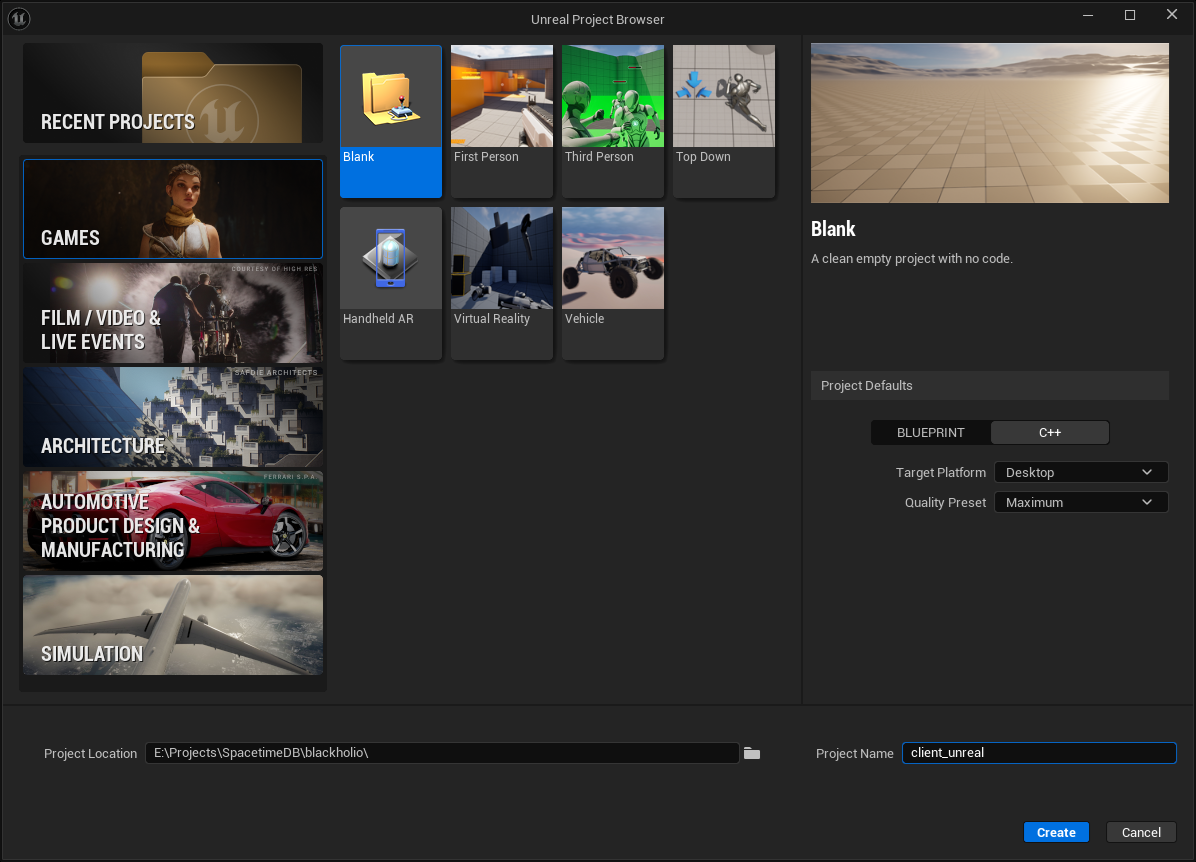
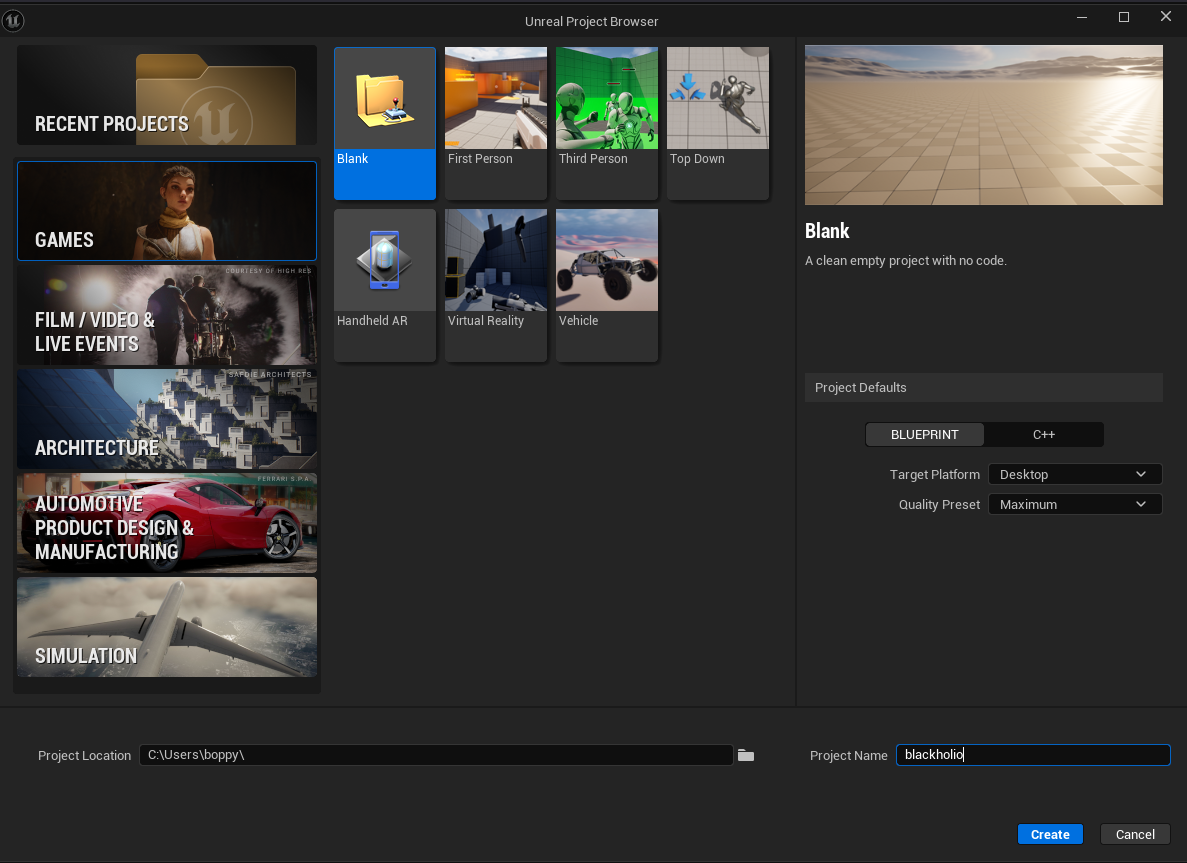
Changes required for unreal engine - still needs testing

diff --git a/docs/docs/04-Unreal Tutorial/03-part-2.md b/docs/docs/04-Unreal Tutorial/03-part-2.md
@@ -12,7 +12,28 @@ Need help with the tutorial? [Join our Discord server](https://discord.gg/spacet
 
 This progressive tutorial is continued from [part 1](/unreal/part-1).
 
+## Project Structure
+
+Now that we have our client project setup we can configure the module directory. Regardless of what language you choose, your module will always go into a `spacetimedb` directory within your client directory like this:
+
+```
+blackholio/                      # Unreal project root
+├── Binaries/
+├── blackholio.sln
+├── blackholio.uproject
+├── Config/
+├── Content/
+├── Plugins/
+│   └── SpacetimeDbSdk/          # This is where the SpacetimeDB Unreal SDK lives
+├── ... rest of Unreal files
+└── spacetimedb/                 # This is where the server module lives
+```
+
 ## Create a Server Module
+
+:::note
+Ensure you have SpacetimeDB version >=1.4.0 installed to enable Unreal Engine code generation support.
+:::
 
 If you have not already installed the `spacetime` CLI, check out our [Getting Started](/getting-started) guide for instructions on how to install.
 
@@ -23,19 +44,19 @@ In your `blackholio` directory, run the following command to initialize the Spac
 Run the following command to initialize the SpacetimeDB server module project with Rust as the language:
 
 ```bash
-spacetime init --lang rust server-rust
+spacetime init --lang rust blackholio
 ```
 
-This command creates a new folder named `server-rust` alongside your Unreal project `client_unreal` directory and sets up the SpacetimeDB server project with Rust as the programming language.
+This command creates a new folder named `blackholio` alongside your Unreal project `blackholio` directory and sets up the SpacetimeDB server project with Rust as the programming language.
 </TabItem>
 <TabItem value="csharp" label="C#">
 Run the following command to initialize the SpacetimeDB server module project with C# as the language:
 
 ```bash
-spacetime init --lang csharp server-csharp
+spacetime init --lang csharp blackholio
 ```
 
-This command creates a new folder named `server-csharp` alongside your Unreal project `client-unreal` directory and sets up the SpacetimeDB server project with C# as the programming language.
+This command creates a new folder named `blackholio` inside of your Unreal project `blackholio` directory and sets up the SpacetimeDB server project with C# as the programming language.
 </TabItem>
 </Tabs>
 
@@ -43,14 +64,14 @@ This command creates a new folder named `server-csharp` alongside your Unreal pr
 
 <Tabs groupId="server-language" defaultValue="rust">
 <TabItem value="rust" label="Rust">
-In this section we'll be making some edits to the file `server-rust/src/lib.rs`. We recommend you open up this file in an IDE like VSCode or RustRover.
+In this section we'll be making some edits to the file `blackholio/spacetimedb/src/lib.rs`. We recommend you open up this file in an IDE like VSCode or RustRover.
 
-**Important: Open the `server-rust/src/lib.rs` file and delete its contents. We will be writing it from scratch here.**
+**Important: Open the `blackholio/spacetimedb/src/lib.rs` file and delete its contents. We will be writing it from scratch here.**
 </TabItem>
 <TabItem value="csharp" label="C#">
-In this section we'll be making some edits to the file `server-csharp/Lib.cs`. We recommend you open up this file in an IDE like VSCode or Rider.
+In this section we'll be making some edits to the file `blackholio/spacetimedb/Lib.cs`. We recommend you open up this file in an IDE like VSCode or Rider.
 
-**Important: Open the `server-csharp/Lib.cs` file and delete its contents. We will be writing it from scratch here.**
+**Important: Open the `blackholio/spacetimedb/Lib.cs` file and delete its contents. We will be writing it from scratch here.**
 </TabItem>
 </Tabs>
 
@@ -364,10 +385,10 @@ Starting SpacetimeDB listening on 127.0.0.1:3000
 
 <Tabs groupId="server-language" defaultValue="rust">
 <TabItem value="rust" label="Rust">
-Now that SpacetimeDB is running we can publish our module to the SpacetimeDB host. In a separate terminal window, navigate to the `blackholio/server-rust` directory.
+Now that SpacetimeDB is running we can publish our module to the SpacetimeDB host. In a separate terminal window, navigate to the `blackholio/spacetimedb` directory.
 </TabItem>
 <TabItem value="csharp" label="C#">
-Now that SpacetimeDB is running we can publish our module to the SpacetimeDB host. In a separate terminal window, navigate to the `blackholio/server-csharp` directory.
+Now that SpacetimeDB is running we can publish our module to the SpacetimeDB host. In a separate terminal window, navigate to the `blackholio/spacetimedb` directory.
 </TabItem>
 </Tabs>
 
@@ -477,21 +498,21 @@ The `spacetime` CLI has built in functionality to let us generate Unreal C++ typ
 
 <Tabs groupId="server-language" defaultValue="rust">
 <TabItem value="rust" label="Rust">
-Let's generate our types for our module. In the `blackholio/server-rust` directory run the following command:
+Let's generate our types for our module. In the `blackholio/spacetimedb` directory run the following command:
 </TabItem>
 <TabItem value="csharp" label="C#">
-Let's generate our types for our module. In the `blackholio/server-csharp` directory run the following command:
+Let's generate our types for our module. In the `blackholio/spacetimedb` directory run the following command:
 </TabItem>
 </Tabs>
 
 ```sh
-spacetime generate --lang unrealcpp --uproject-dir ../client_unreal --project-path ./ --module-name client_unreal
+spacetime generate --lang unrealcpp --uproject-dir ../../blackholio --project-path ./ --module-name blackholio
 ```
 
-This will generate a set of files in the `client_unreal/Source/client_unreal/Private/ModuleBindings` and `client_unreal/Source/client_unreal/Public/ModuleBindings` directories which contain the code generated types and reducer functions that are defined in your module, but usable on the client.
+This will generate a set of files in the `blackholio/Source/blackholio/Private/ModuleBindings` and `blackholio/Source/blackholio/Public/ModuleBindings` directories which contain the code generated types and reducer functions that are defined in your module, but usable on the client.
 
 :::note
-`--uproject-dir` is straightforward as the path to the .uproject file. `--module-name` is the name of the Unreal module which in most projects is the name of the project, in this case `client_unreal`.
+`--uproject-dir` is straightforward as the path to the .uproject file. `--module-name` is the name of the Unreal module which in most projects is the name of the project, in this case `blackholio`.
 :::
 
 ```
@@ -514,11 +535,11 @@ This will generate a set of files in the `client_unreal/Source/client_unreal/Pri
 └── SpacetimeDBClient.g.h
 ```
 
-This will also generate a file in the `client_unreal/Source/client_unreal/Private/ModuleBindings/SpacetimeDBClient.g.h` directory with a type aware `UDbConnection` class. We will use this class to connect to your database from Unreal.
+This will also generate a file in the `blackholio/Source/blackholio/Private/ModuleBindings/SpacetimeDBClient.g.h` directory with a type aware `UDbConnection` class. We will use this class to connect to your database from Unreal.
 
 ### Connecting to the Database
 
-Update `client_unreal.Build.cs` to include the `SpacetimeDbSdk`. Add `SpacetimeDbSdk` and `Paper2D` to `PublicDependencyModuleNames`, and confirm that `PrivateDependencyModuleNames` includes the following modules for current and future needs:
+Update `blackholio.Build.cs` to include the `SpacetimeDbSdk`. Add `SpacetimeDbSdk` and `Paper2D` to `PublicDependencyModuleNames`, and confirm that `PrivateDependencyModuleNames` includes the following modules for current and future needs:
 
 ```cpp
         PublicDependencyModuleNames.AddRange(new string[]

diff --git a/docs/docs/04-Unreal Tutorial/02-part-1.md b/docs/docs/04-Unreal Tutorial/02-part-1.md
@@ -11,26 +11,6 @@ Need help with the tutorial? [Join our Discord server](https://discord.gg/spacet
 >
 > [https://github.com/clockworklabs/SpacetimeDB/tree/master/demo/Blackholio](https://github.com/clockworklabs/SpacetimeDB/tree/master/demo/Blackholio)
 
-## Prepare Project Structure
-
-:::note
-Ensure you have SpacetimeDB version >=1.4.0 installed to enable Unreal Engine code generation support.
-:::
-
-This project is separated into two subdirectories;
-
-1. Server (module) code
-2. Client code
-
-First, we'll create a project root directory (you can choose the name):
-
-```bash
-mkdir blackholio
-cd blackholio
-```
-
-We'll start by populating the client directory.
-
 ## Setting up the Tutorial Unreal Project
 
 In this section, we will guide you through the process of setting up a Unreal Project that will serve as the starting point for our tutorial. By the end of this section, you will have a basic Unreal project and be ready to implement the server functionality.
@@ -44,8 +24,7 @@ Launch Unreal 5.6 and create a new project by selecting Games from the Unreal Pr
 :::warning
 Select the **Blank** template and in **Project Defaults** select **C++**.
 :::
-For **Project Name** use `client_unreal`.
-For **Project Location**, use your `blackholio` directory (created in the previous step).
+For **Project Name** use `blackholio`.
 
 Click **Create** to generate the blank project.
 
@@ -68,20 +47,20 @@ Before beginning make sure to close the Unreal project and IDE.
 1. Navigate to your Unreal project directory and create a `Plugins` folder if it doesn’t already exist:
 
    ```bash
-   cd client_unreal
+   cd blackholio
    mkdir Plugins
    ```
 
 2. Download or clone the SDK from GitHub and copy the SpacetimeDbSdk folder into your new Plugins directory.
-   - This should create `/client_unreal/Plugins/SpacetimeDbSdk`.
-3. In the root of the Unreal project, right click the client_unreal.uproject and select **Generate Visual Studio project files**. On Windows 11 you may need to expand **Show more options** to select the generate option.
+   - This should create `/blackholio/Plugins/SpacetimeDbSdk`.
+3. In the root of the Unreal project, right click the blackholio.uproject and select **Generate Visual Studio project files**. On Windows 11 you may need to expand **Show more options** to select the generate option.
 
 ![Generate project files](/images/unreal/part-1-02-01-generate-project.png)
 ![Generate project files](/images/unreal/part-1-02-02-generate-project.png)
 
 ### Create the GameManager Actor
 
-1. Open the `client_unreal` project in your IDE (Visual Studio or JetBrains Rider) and run the project to launch the Unreal Editor.
+1. Open the `blackholio` project in your IDE (Visual Studio or JetBrains Rider) and run the project to launch the Unreal Editor.
    - This will enable **Live Coding**, making the workflow a bit smoother.
    - Unreal will prompt you to build the `SpacetimeDbSdk` plugin. Do so.
 2. Open **Tools -> New C++ Class** in the top menu, select **Actor** as the parent and click **Next**

diff --git a/docs/docs/03-Unity Tutorial/03-part-2.md b/docs/docs/03-Unity Tutorial/03-part-2.md
@@ -23,7 +23,7 @@ blackholio/                     # This is the directory for your Unity project
 │   └── module_bindings/        # This directory contains the client logic to communicate with the module
 ├── Library/
 ├── ...                         # rest of the Unity files
-└── spacetimedb/                # This is where your server modules live
+└── spacetimedb/                # This is where your server module lives
 ```
 
 Your `module_bindings` directory can go wherever you want as long as it is inside of `Assets/` in your Unity project. We'll configure this in a later step.
